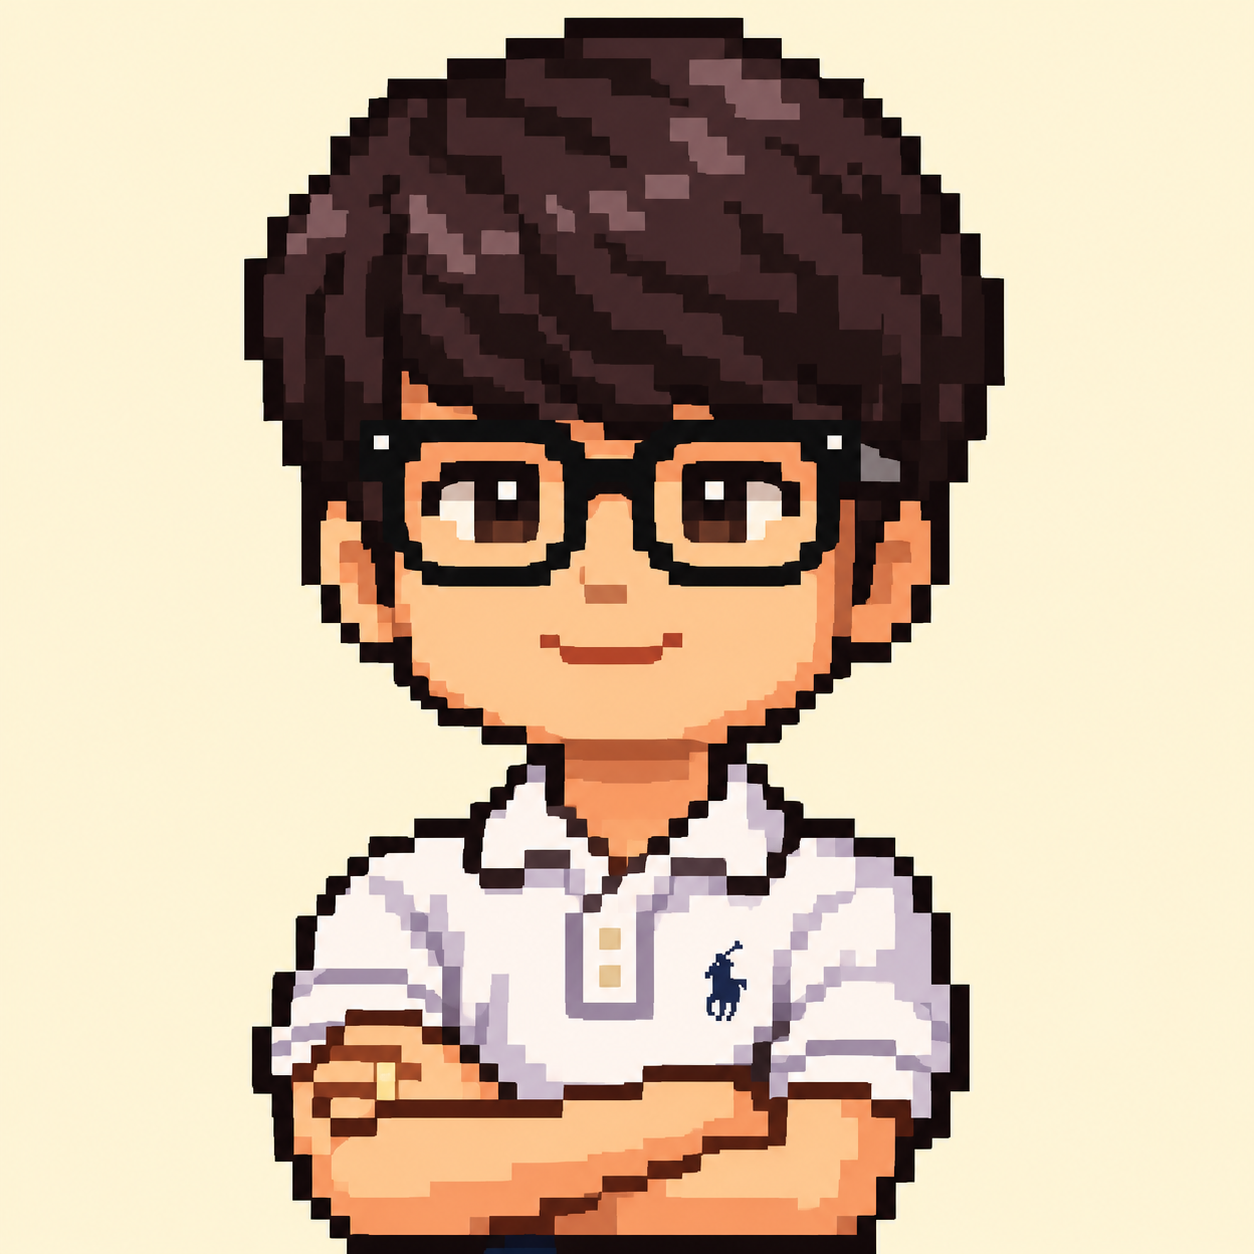
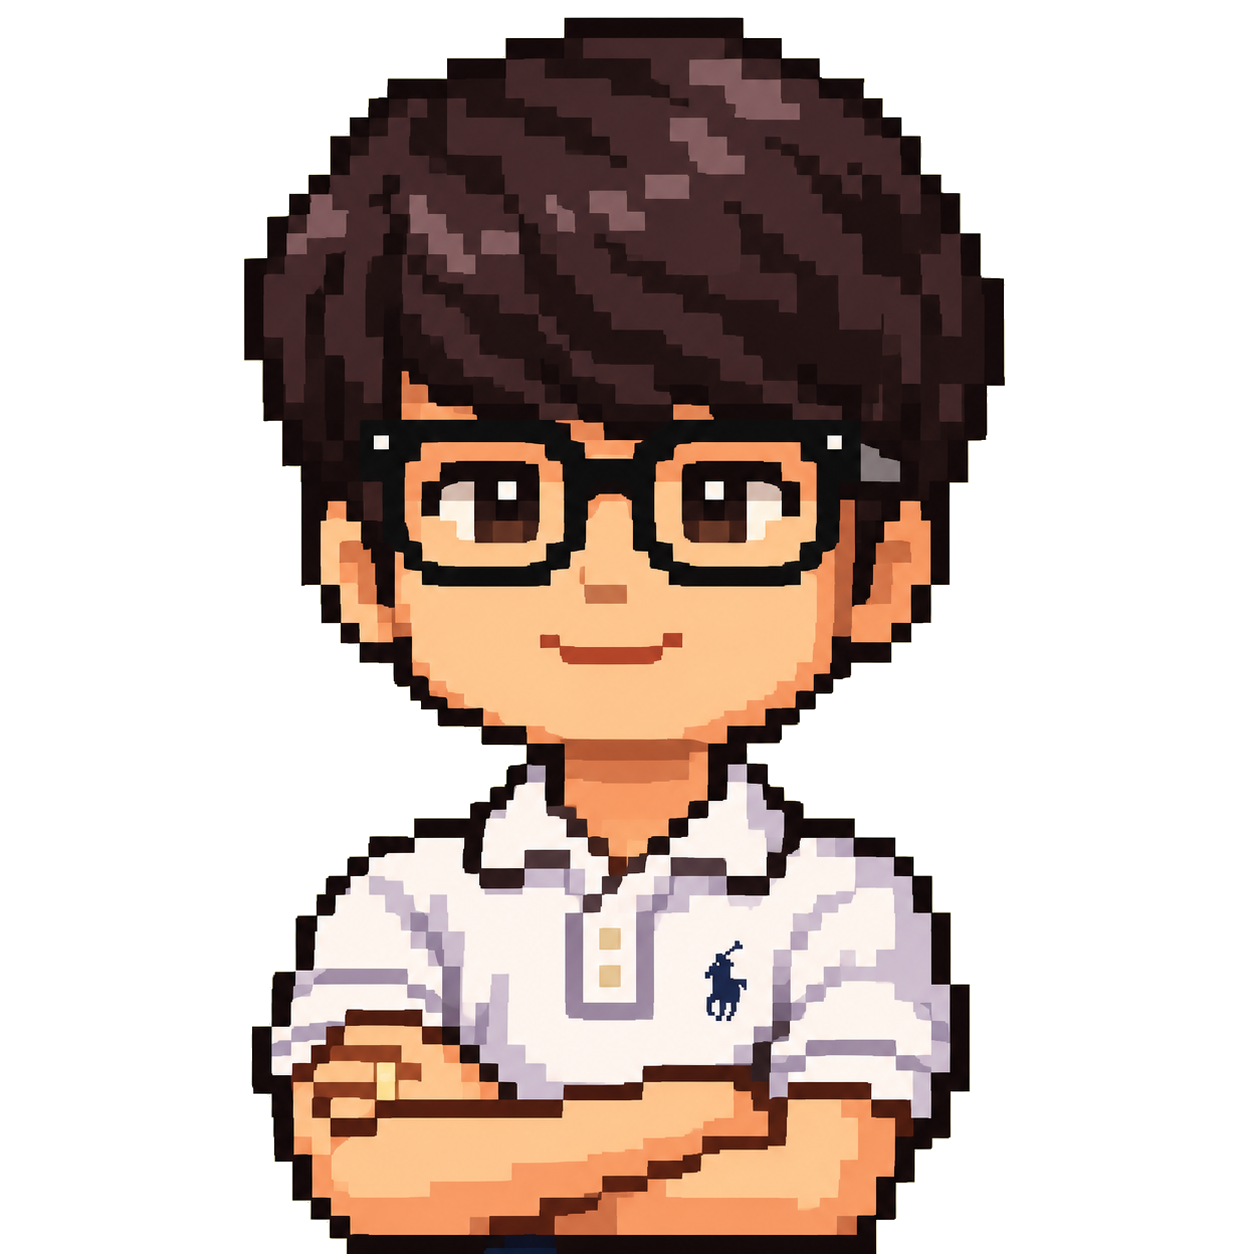
긴 제목 크기 자동 조절, 목차·홈 대표 이미지 개선
- 제목 길이에 따라 글 페이지·홈 대표 글 제목 크기를 3단계로 조절 (src/lib/title.ts)
- 목차: 본문 번호 중복 제거, 긴 항목 2줄 제한, ## 없으면 ### 사용
- 홈 대표 이미지가 있으면 카테고리 공통 도식보다 우선
- 김동일 교수님 인터뷰: 제목 단축, 질문을 제목(##)으로 변환, 대표 이미지 배경 제거
- CMS 본문 안내에 목차 생성 방법 추가

diff --git a/src/lib/title.ts b/src/lib/title.ts
@@ -1,0 +1,14 @@
+/**
+ * 제목 길이에 따라 큰 제목의 크기 단계를 정한다.
+ * 디자인은 "AGENTIC AI" 같은 짧은 영문 제목 기준이라, 긴 한글 제목은 줄여야 한다.
+ * 한글·한자 등 전각 문자는 1, 영문·숫자·공백·기호는 0.6으로 센다.
+ */
+export function titleSize(title: string): "short" | "long" | "xlong" {
+  let width = 0;
+  for (const ch of title) {
+    width += /[ᄀ-ᇿ㄰-㆏가-힯一-鿿]/.test(ch) ? 1 : 0.6;
+  }
+  if (width > 22) return "xlong";
+  if (width > 12) return "long";
+  return "short";
+}

diff --git a/src/content/posts/career/dsprofessor-kimdongil.md b/src/content/posts/career/dsprofessor-kimdongil.md
@@ -1,15 +1,14 @@
 ---
 category: CAREER
-title: 데이터사이언스전공 김동일 교수님을 소개합니다!
+title: INTERVIEW · 김동일 교수님
 subtitle: 데이터사이언스전공의 든든한 길잡이, 김동일 교수님을 만나다
 urlKey: dsprofessor-kimdongil
 author: Seeun Jung
 date: 2026-11-11T01:39
 draft: false
-visual: career
 homeImage: /images/mwaxd22w-989urn98.png
 ---
-# [교수님 인터뷰] 데이터사이언스전공 김동일 교수님을 소개합니다!
+**[교수님 인터뷰] 데이터사이언스전공 김동일 교수님을 소개합니다!**
 
 - **소속:** 이화여자대학교 데이터사이언스전공
 - **전화:** 02-3277-4070
@@ -18,11 +17,11 @@ homeImage: /images/mwaxd22w-989urn98.png
 
 ![](/images/mwaxd22w-989urn98.png)
 
-**1. 간단한 자기소개 부탁드립니다.**
+## 1. 간단한 자기소개 부탁드립니다.
 
 안녕하세요. 이화여자대학교 데이터사이언스학과 김동일입니다. 기업, 연구소, 타 대학을 거쳐 2023년 저희 학과의 첫 교수로 부임했고, 그 후로 학과의 발전을 위해 나름 최선을 다하며 지내고 있습니다. 현재 데이터사이언스학과장과 전공주임을 비롯해 인공지능대학 부학장, 데이터사이언스대학원 부원장을 맡고 있습니다.
 
-**2. 교수님의 주요 연구 분야에 대해 간략히 소개 부탁드립니다.**
+## 2. 교수님의 주요 연구 분야에 대해 간략히 소개 부탁드립니다.
 
 데이터를 머신러닝·딥러닝 모델로 학습하여 의미 있고 가치 있는 결과를 낸다는 큰 틀 아래에서, 주제에 제한을 두지 않고 비교적 자유롭고 다양하게 연구하고 있습니다.
 
@@ -30,7 +29,7 @@ homeImage: /images/mwaxd22w-989urn98.png
 
 
 
-**2.1. 교수님의 연구 분야에 관심 있는 학부생이라면 어떤 과목을 수강하면 좋을까요?**
+### 2.1. 교수님의 연구 분야에 관심 있는 학부생이라면 어떤 과목을 수강하면 좋을까요?
 
 우선 저희 학과에서 제공하는 전공과목들을 잘 수강하면 좋겠습니다. 특히 기본이 되는 데이터사이언스원론, 머신러닝, 딥러닝에 더해, 본인이 관심 있는 기법 관련 심화과목 한두 개와 응용과목 한두 개를 추가로 수강하면 좋을 것 같습니다.
 
@@ -38,7 +37,7 @@ homeImage: /images/mwaxd22w-989urn98.png
 
 
 
-**3. 교수님의 학부생과 대학원생 시절 이야기가 궁금합니다. 당시 기억에 남는 경험이나 현재의 진로에 영향을 준 계기가 있다면 소개 부탁드립니다.**
+## 3. 교수님의 학부생과 대학원생 시절 이야기가 궁금합니다. 당시 기억에 남는 경험이나 현재의 진로에 영향을 준 계기가 있다면 소개 부탁드립니다.
 
 학부 때는 전공과목에 크게 흥미를 느끼지 못하다가, 4학년 1학기에 ‘데이터마이닝’이라는 과목을 듣고 너무 재미있어서 밤새 프로젝트를 했던 기억이 있습니다. 이 분야로 대학원에 가야겠다고 결심했고, 그 과목의 교수님이자 이후 저의 지도교수님께 학부 인턴을 신청했습니다. 운 좋게 허락을 받아 인턴 생활을 시작하게 되었습니다.
 
@@ -52,7 +51,7 @@ homeImage: /images/mwaxd22w-989urn98.png
 
 
 
-**4. 생성형 AI를 비롯한 AI 기술이 빠르게 발전하면서 데이터사이언티스트의 역할도 변화하고 있습니다. 앞으로 데이터사이언스 전공자의 역할은 어떻게 변화할 것이라고 생각하시나요?**
+## 4. 생성형 AI를 비롯한 AI 기술이 빠르게 발전하면서 데이터사이언티스트의 역할도 변화하고 있습니다. 앞으로 데이터사이언스 전공자의 역할은 어떻게 변화할 것이라고 생각하시나요?
 
 모든 분야에서 변화가 매우 클 것이라고 생각합니다. 데이터사이언티스트든 변호사든 마찬가지일 것 같은데요.
 
@@ -74,7 +73,7 @@ homeImage: /images/mwaxd22w-989urn98.png
 
 
 
-**5. 아직 구체적인 진로를 결정하지 못한 데이터사이언스 전공 학부생들이 자신의 관심 분야와 적성을 찾기 위해 학부 과정에서 꼭 해보았으면 하는 경험이 있으신가요?**
+## 5. 아직 구체적인 진로를 결정하지 못한 데이터사이언스 전공 학부생들이 자신의 관심 분야와 적성을 찾기 위해 학부 과정에서 꼭 해보았으면 하는 경험이 있으신가요?
 
 진로 결정에 대해 너무 서두르거나 조급해하지 않았으면 좋겠습니다. 저도 4학년 1학기에 진로를 결정했고, 박사과정 진학은 석사 2년 차에 결정했습니다.
 
@@ -88,7 +87,7 @@ homeImage: /images/mwaxd22w-989urn98.png
 
 
 
-**6. 학부연구생에 관심 있는 학생들이 연구실에 지원하기 전에 준비하면 좋은 것은 무엇인가요? 학부연구생을 지도하거나 선발하실 때 중요하게 보시는 점도 궁금합니다.**
+## 6. 학부연구생에 관심 있는 학생들이 연구실에 지원하기 전에 준비하면 좋은 것은 무엇인가요? 학부연구생을 지도하거나 선발하실 때 중요하게 보시는 점도 궁금합니다.
 
 저는 학부연구생이나 대학원생을 선발할 때 가장 중요하게 보는 것이 “하고 싶어 하는가?”입니다. 본인이 이 분야를 재미있어하고, 호기심을 느끼며, 정말 깊이 공부하고 싶어 하는지를 가장 중요하게 봅니다.
 
@@ -100,7 +99,7 @@ homeImage: /images/mwaxd22w-989urn98.png
 
 
 
-**7. 교수님께서는 제조, 시계열, 과학 데이터 등 다양한 분야의 데이터를 연구해 오셨는데요. 새로운 분야의 도메인 지식은 어떻게 익히시는지, 데이터사이언티스트와 도메인 전문가가 효과적으로 협업하기 위해 가장 중요한 점은 무엇인지 궁금합니다.**
+## 7. 교수님께서는 제조, 시계열, 과학 데이터 등 다양한 분야의 데이터를 연구해 오셨는데요. 새로운 분야의 도메인 지식은 어떻게 익히시는지, 데이터사이언티스트와 도메인 전문가가 효과적으로 협업하기 위해 가장 중요한 점은 무엇인지 궁금합니다.
 
 저는 한 사람이 기술과 도메인 지식 두 분야에서 모두 최고 수준의 전문성을 갖기는 어렵다고 생각합니다. 즉, 융합인재가 모델링에서도 최고 수준이고 특정 도메인에서도 최고 수준인 사람이 되는 것을 지향한다고 생각하지는 않습니다.
 
@@ -112,7 +111,7 @@ homeImage: /images/mwaxd22w-989urn98.png
 
 
 
-**8. 마지막으로 데이터사이언스 전공 학생들에게 전하고 싶은 말씀이 있다면 부탁드립니다.**
+## 8. 마지막으로 데이터사이언스 전공 학생들에게 전하고 싶은 말씀이 있다면 부탁드립니다.
 
 데이터사이언스를 공부하는 학생들에게 기초를 탄탄히 다지고, 배운 것을 직접 적용해 보며, **자신의 가능성을 너무 일찍 제한하지 말라는 말씀을 드리고 싶습니다.** AI 기술과 도구는 빠르게 변화하지만, 문제를 논리적으로 정의하고 해결하는 능력, 새로운 것을 배우는 자세, 다른 사람과 협력하는 능력은 앞으로도 중요할 것입니다.
 
